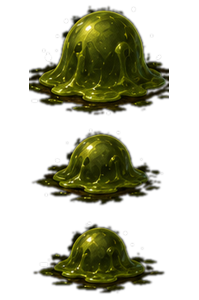
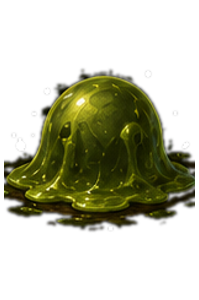
v0.34: single Green Slime sprite + in-game Patch Notes page
- Green Slime is now a single slime (re-sliced to the largest of the stacked
  three); they still appear in groups via the encounter tables (e.g. slime+slime).
- Patch Notes: new page under Stats listing the full version history v0.1 -> v0.34
  (data in data/changelog.ts; Telemetry.patchNotes() renders it, "you are here"
  marks the current build) so we can see all the progress.

typecheck + 24 tests + build clean.

Claude-Session: https://claude.ai/code/session_016rVhiCC4gT7PYfErWBgDBG

diff --git a/app/src/data/changelog.ts b/app/src/data/changelog.ts
@@ -1,0 +1,44 @@
+// In-game patch notes — the full version history, newest first. Surfaced under Stats so we can
+// see the whole arc of the POC. Add a line here whenever GAME_VERSION bumps.
+
+export interface ChangeEntry {
+  v: string;
+  t: string;
+}
+
+export const CHANGELOG: ChangeEntry[] = [
+  { v: "v0.34", t: "Battle visual pass — crisp sprite outlines + contrast, formations grounded out of the sky, higher-fidelity re-sliced backgrounds, hero names colored by Attunement; Warmech ultra-rare added." },
+  { v: "v0.33", t: "Cave Troll boss re-tuned to NOX so the final fight has a real affinity matchup." },
+  { v: "v0.32", t: "Dara's canon bestiary (Greenvale + Drowned Vault, SOL/NOX bosses); SOL de-weighted everywhere; ultra-rare monster tier — Hogger, Metal Slime, Metal Babble." },
+  { v: "v0.31", t: "Crit-hit burst VFX — a per-Attunement spark that pops and fades on a critical." },
+  { v: "v0.30", t: "Six gear slots (helmet/armor/gloves/boots/weapon/trinket); level-banded loot with ilvl scaling; sell loot back to the merchant." },
+  { v: "v0.29", t: "All 45 classes get distinct ability kits generated from REQUIEM canon; mid-run telemetry save." },
+  { v: "v0.28", t: "Serverless telemetry auto-save — runs commit themselves to the repo via a Cloudflare Worker." },
+  { v: "v0.27", t: "Loot → equip flow with green/red stat-delta arrows." },
+  { v: "v0.26", t: "Dungeon tilesets + combat feel pass — faster enemies, stun immunity for tough foes, front/back formation." },
+  { v: "v0.25", t: "Loot repass so every Attunement drops; telemetry copy-export; field art polish." },
+  { v: "v0.24", t: "Party of five (3 front / 2 back), champion packs, Greenvale tileset, build-any-Attunement Roster picker." },
+  { v: "v0.23", t: "Painterly art pass — per-Attunement weapons, 45 class bodies, armor icons, hero-sized weapons." },
+  { v: "v0.22", t: "All 45 class bodies + per-Attunement Dual Swords and armor icons." },
+  { v: "v0.21", t: "Painterly per-Attunement weapon art + weaponless SOL hero bodies." },
+  { v: "v0.20", t: "Fixed accidental battle-exit from stray taps at the start of a fight." },
+  { v: "v0.19", t: "Wired Dara's painterly terrain backgrounds into battle." },
+  { v: "v0.18", t: "Applied the UX-review findings — legibility and clarity polish." },
+  { v: "v0.17", t: "Skill-tree visualizer + ability tooltips; foreign-weapon fixes." },
+  { v: "v0.16", t: "Beyond SOL — weapon-driven reclassing and the first NOX classes." },
+  { v: "v0.15", t: "Dungeons; ingested the base-model and gear art." },
+  { v: "v0.14", t: "MNA allocator UI + respec." },
+  { v: "v0.13", t: "MNA progression engine + loot scaling, more skills, rebalance." },
+  { v: "v0.12", t: "Re-architected to modular TypeScript + Vite (the frozen single-file build is v0.11)." },
+  { v: "v0.11", t: "Second zone — The Duskmarsh — and a merchant between zones." },
+  { v: "v0.10", t: "Per-screen music style; battle stray-tap fix." },
+  { v: "v0.9", t: "Punchier home theme + three switchable music variants." },
+  { v: "v0.8", t: "Procedural chiptune soundtrack (Web Audio — no asset files)." },
+  { v: "v0.7", t: "Paper-doll character compositor (ADR 0004)." },
+  { v: "v0.6", t: "Transparent sprites + dark scenes; equipped weapon shown on heroes." },
+  { v: "v0.5", t: "Real difficulty via depth-scaled enemies; glitch and art-bleed fixes." },
+  { v: "v0.4", t: "Wired in Dara's real art — weapons, enemies, heroes." },
+  { v: "v0.3", t: "Bigger bestiary, enemy abilities, a mini-boss gate, and treasure chests." },
+  { v: "v0.2", t: "Longer run, gradual leveling, tougher fights; fixed a victory soft-lock." },
+  { v: "v0.1", t: "First playable Greenvale vertical slice." },
+];

diff --git a/app/src/telemetry/telemetry.ts b/app/src/telemetry/telemetry.ts
@@ -5,6 +5,7 @@ import type { RarityKey } from "../types";
 import { cap } from "../core/rng";
 import { RARITY } from "../data/rarity";
 import { GAME_VERSION } from "../data/version";
+import { CHANGELOG } from "../data/changelog";
 import { TELEMETRY_ENDPOINT } from "./endpoint";
 import { Overlay } from "../ui/overlay";
 import { Game } from "../controllers/game";
@@ -147,10 +148,25 @@ export const Telemetry = {
       ${canSave ? `<button id="tmSaveBtn" class="btn gold" onclick="Telemetry.saveNow()">Save run → repo</button>` : ""}
       <button id="tmCopyBtn" class="btn${canSave ? "" : " gold"}" onclick="Telemetry.copy()">Copy JSON</button>
       <button class="btn" onclick="Telemetry.download()">Download</button>
+      <button class="btn" onclick="Telemetry.patchNotes()">Patch Notes</button>
       <button class="btn" onclick="Telemetry.reset()">Reset</button>
       <button class="btn" onclick="Overlay.hide()">Close</button></div>
       <div class="small" style="opacity:.7;margin-top:6px">${TELEMETRY_ENDPOINT ? "Finished runs auto-save to the repo; <b>Save run → repo</b> sends the current run mid-way." : "On mobile use <b>Copy JSON</b> (downloads are blocked in-app) — paste into Notes."}</div>`;
     Overlay.show(h);
+  },
+  // In-game patch notes — the full version history, newest first (under Stats).
+  patchNotes(): void {
+    const rows = CHANGELOG.map((c) => {
+      const cur = c.v === GAME_VERSION;
+      return `<div class="card" style="text-align:left;margin:6px 0;${cur ? "border-color:var(--gold)" : ""}">
+        <b class="title-gold">${c.v}</b>${cur ? ` <span class="pill" style="border-color:var(--gold);color:var(--gold2)">you are here</span>` : ""}
+        <div class="small" style="color:var(--ink);margin-top:2px">${c.t}</div>
+      </div>`;
+    }).join("");
+    Overlay.show(`<h2 class="title-gold">Patch Notes</h2>
+      <div class="small" style="opacity:.7;margin-top:-4px">The whole journey — ${CHANGELOG.length} versions, newest first</div>
+      <div class="scroll">${rows}</div>
+      <div class="row"><button class="btn gold" onclick="Telemetry.show()">◂ Back to Stats</button></div>`);
   },
   // Push the IN-PROGRESS run to the repo now (in case the session won't be finished). Marks it
   // reason:"midrun" with the current duration so partial runs are distinguishable.

diff --git a/app/tools/slice-enemies.py b/app/tools/slice-enemies.py
@@ -99,7 +99,7 @@ def save(im, key):
 # A faint dark halo can survive on the lighter test backdrop but is invisible on the battle scene.
 ROSTER={
  # top row (Greenvale) — y band 165..555
- "slime":   ((40, 175, 210, 555), 30),
+ "slime":   ((50, 178, 205, 338), 30),  # single (largest, top) slime — they appear in GROUPS via encounters
  "kobold":  ((228, 165, 456, 555), 30),
  "gbandit": ((516, 165, 666, 555), 30),
  "gmage":   ((720, 165, 918, 555), 30),